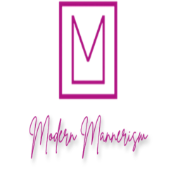
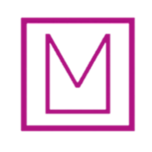
new fevicon added

diff --git a/app/(client)/layout.jsx b/app/(client)/layout.jsx
@@ -9,9 +9,17 @@ import ThemeSwitcher from "@/components/ThemeSwitcher";
 const inter = Inter({ subsets: ["latin"] });
 
 export const metadata = {
-    title: "Modern Mannerism",
+    title: {
+        default: "Modern Mannerism",
+        template: "%s - Modern Mannerism"
+    },
     description: "Join Modern Mannerism today and embark on a journey of refinement and success. Whether you're looking to enhance your professional image or polish your dining finesse,we are here to guide you every step of the way",
-    openGraph:{ type: "website", url: "https://modernmannerism.com/android-chrome-512x512.png", title: "Modern Mannerism", description: "Join Modern Mannerism today and embark on a journey of refinement and success. Whether you're looking to enhance your professional image or polish your dining finesse,we are here to guide you every step of the way"}
+    twitter: {
+        card: "summary_large_image",
+        title: "Modern Mannerism",
+        description: "Join Modern Mannerism today and embark on a journey of refinement and success. Whether you're looking to enhance your professional image or polish your dining finesse,we are here to guide you every step of the way"
+    },
+
 };
 
 export default function RootLayout({ children }) {

diff --git a/app/(admin)/layout.jsx b/app/(admin)/layout.jsx
@@ -12,7 +12,7 @@ export const metadata = {
 
 export default function DashboardLayout({ children }) {
     return (
-        <html lang="en" class="light">
+        <html lang="en" >
             <body className="dark:bg-black dark:text-white text-black bg-blue-100">
                 <Providers>
                     <div className="min-h-screen max-h-screen">

diff --git a/app/(client)/contact/page.jsx b/app/(client)/contact/page.jsx
@@ -1,9 +1,14 @@
 import React from 'react'
 
+export const metadata = {
+    title: 'Contact Page',
+    description: 'Contact Page',
+}
+
 const page = () => {
-  return (
-    <div className='container'>Contact Page</div>
-  )
+    return (
+        <div className='container'>Contact Page</div>
+    )
 }
 
 export default page
